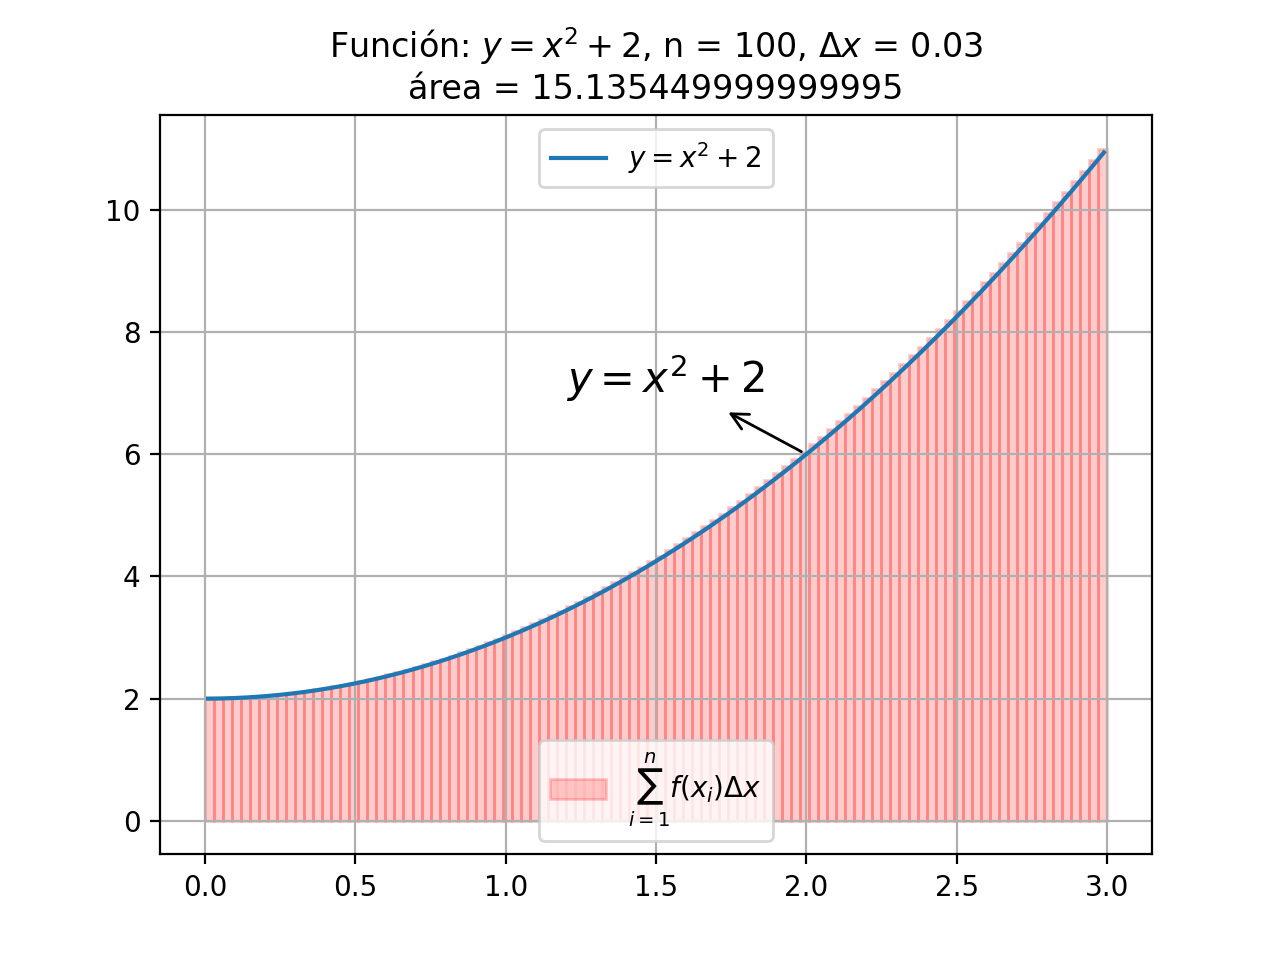
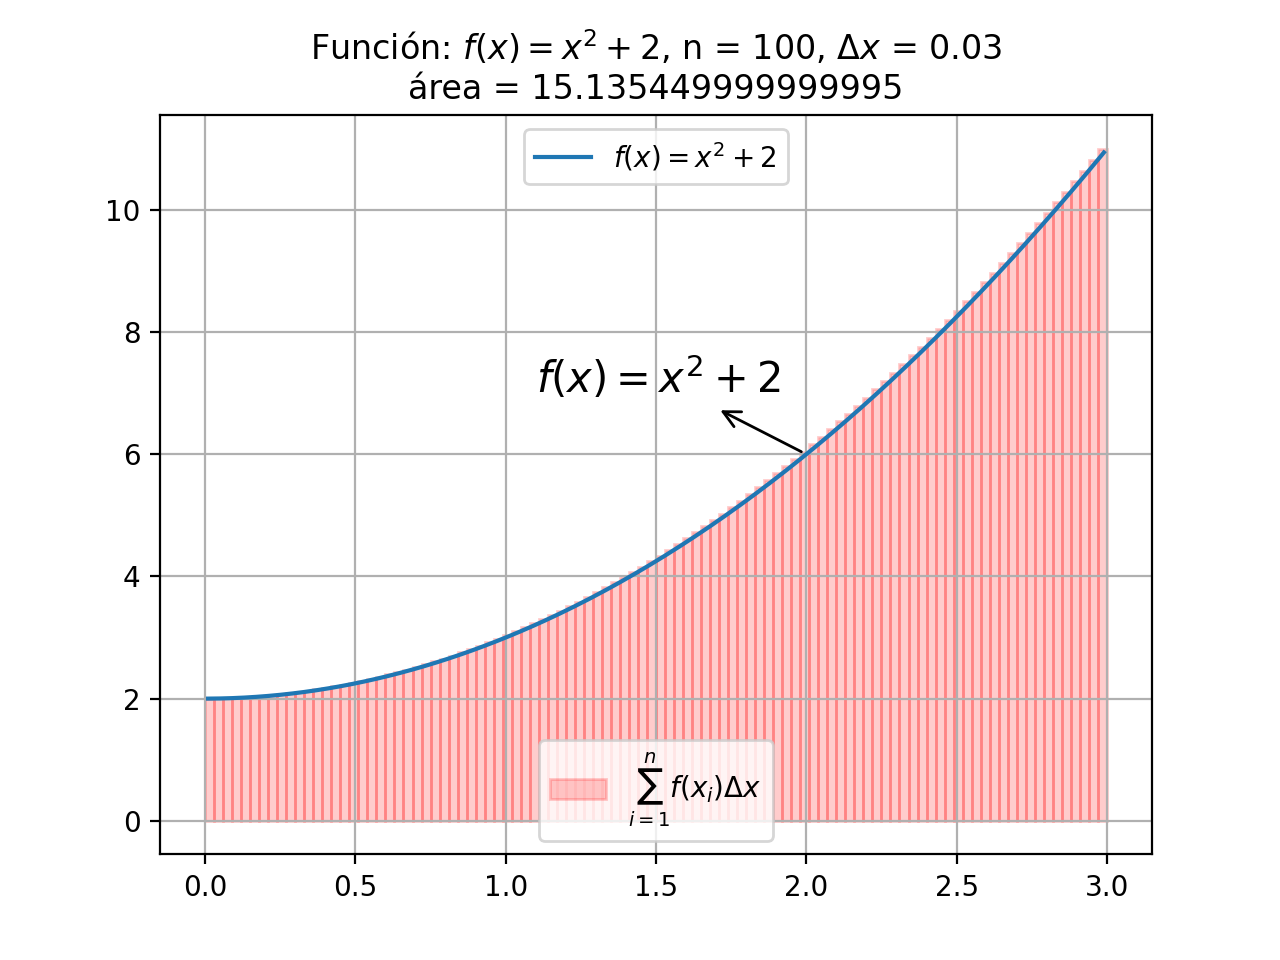
imagenes output corregidas

Changed region(s): [[0.25, 0.0312, 0.7812, 0.0625], [0.4062, 0.125, 0.625, 0.2188], [0.4062, 0.375, 0.625, 0.4688]]

diff --git a/calc.py b/calc.py
@@ -5,7 +5,7 @@ n = 10
 incremento = 10
 inicio = 0
 fin = 3
-f = r'$y=x^2+2$'
+f = r'$f(x)=x^2+2$'
 delta = r'$\Delta{x}$'
 
 def graficar_funcion():
@@ -13,7 +13,7 @@ def graficar_funcion():
     y = (t**2)+2
     fig, ax = plt.subplots()
     ax.plot(t, y, label=f)
-    texto = plt.annotate(f, xy = (2,6), xytext = (1.2, 7), fontsize=15,
+    texto = plt.annotate(f, xy = (2,6), xytext = (1.1, 7), fontsize=15,
         arrowprops=dict(arrowstyle="<-", connectionstyle="arc3,rad=0"))
     plt.grid()
     return ax
@@ -26,7 +26,8 @@ while n <= 100:
     suma = 0
     sum_txt =r'$\sum_{i=1}^{n}f(x_{i})\Delta{x}$'
     ax = graficar_funcion()
-    red_patch = patches.Patch(edgecolor='red', facecolor='red', alpha=0.2, fill=True,  label=sum_txt)
+    red_patch = patches.Patch(edgecolor='red', facecolor='red', alpha=0.2,
+                              fill=True,  label=sum_txt)
     sumatoria_leyenda = ax.legend(handles=[red_patch], loc='lower center')
     ax.add_artist(sumatoria_leyenda)
     while i <= n:
